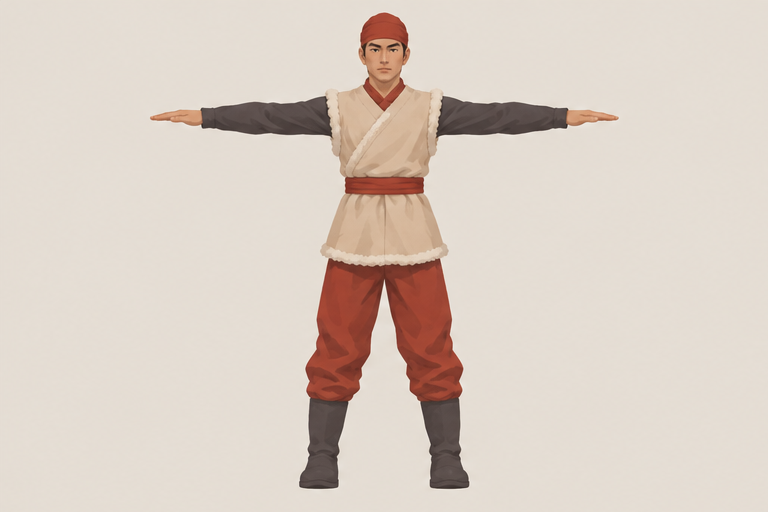
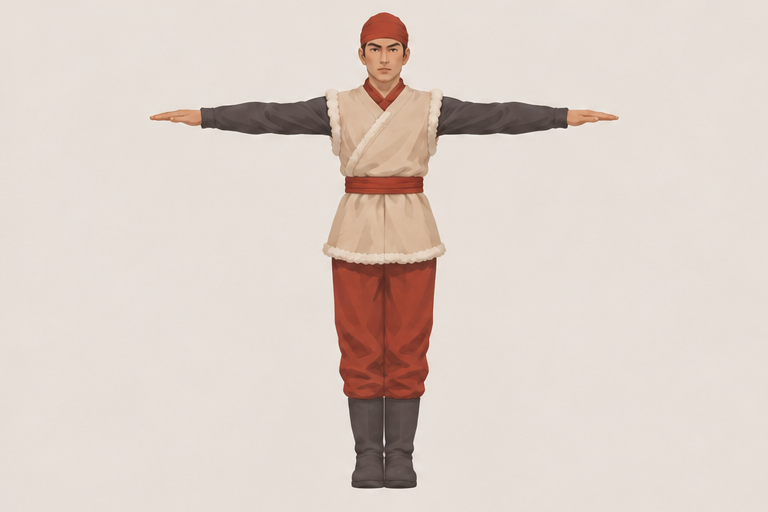
Bring the guard T-pose feet together in the turnaround

diff --git a/art_assets/characters/frontier_guard/README.md b/art_assets/characters/frontier_guard/README.md
@@ -1,6 +1,6 @@
 # 边疆守卫 · T Pose 建模参考
 
-羊皮坎肩保留浅色，领口和束腰带一点砖红。头巾、单根不分叉的头巾尾和裤子同属砖红色系。无披风、无盔甲、空手。矛是 [独立道具](../../props/frontier_spear/README.md)。
+羊皮坎肩保留浅色，领口和束腰带一点砖红。头巾、单根不分叉的头巾尾和裤子同属砖红色系。无披风、无盔甲、空手。T Pose 双脚并拢，脚尖平行朝前、双手水平伸展。矛是 [独立道具](../../props/frontier_spear/README.md)。
 
 | 视图 | 文件 |
 | --- | --- |
